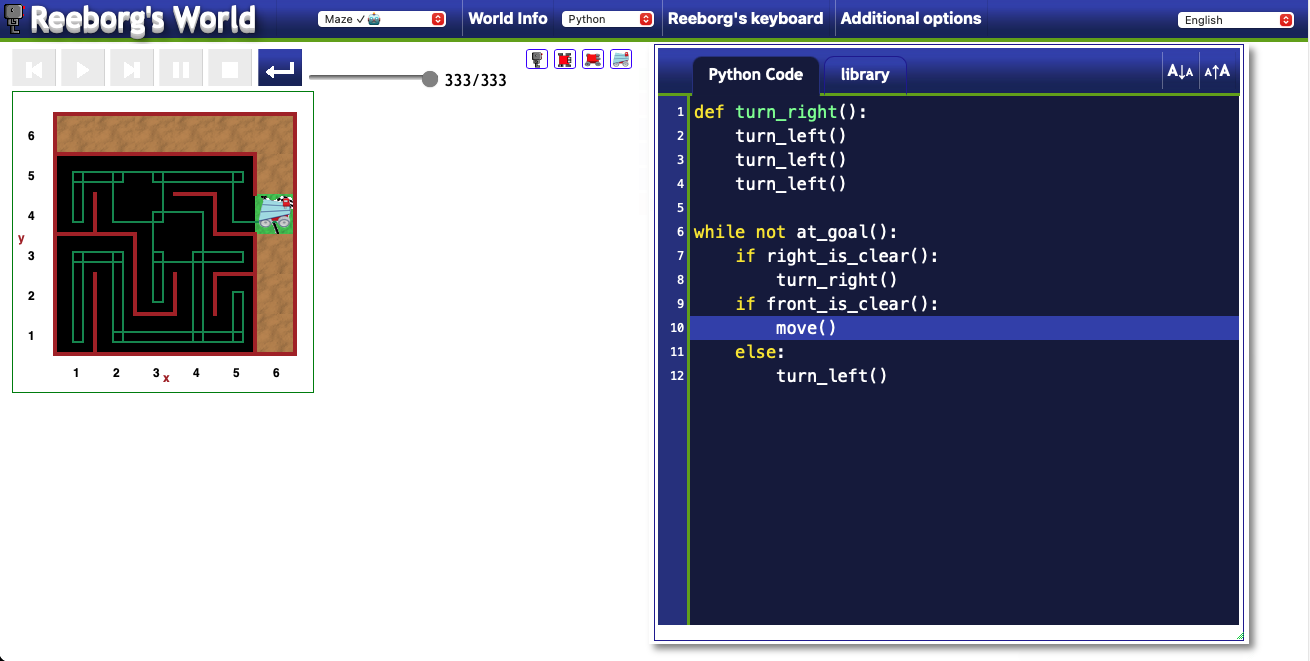
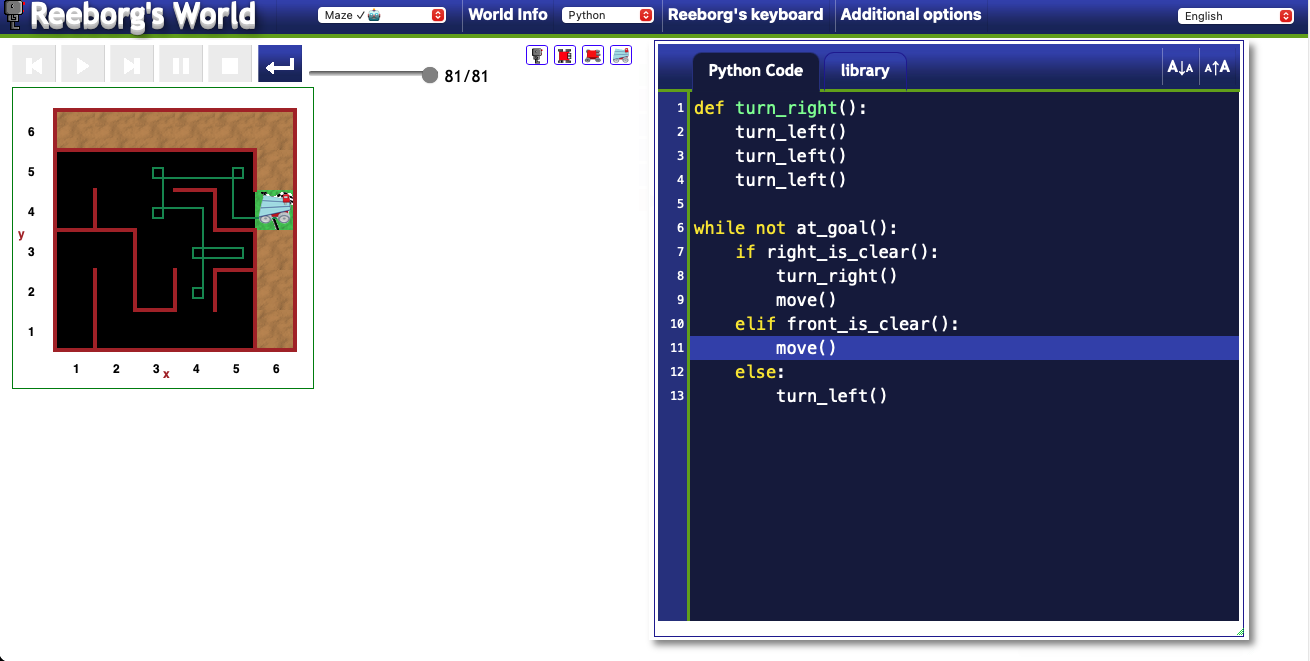
Updated Files

diff --git a/Level 1 - Beginner/Day .6 - Functions & Karel/README.md b/Level 1 - Beginner/Day .6 - Functions & Karel/README.md
@@ -19,3 +19,5 @@ This challenge will randomize the starting position of the robot.
 You can use the functions available for this challenge listed here:
 
 ![Instructions Image](Images/escape_the_maze_instructions_3.png)
+
+Use a WHILE loop with if/elif/else statments to solve.
